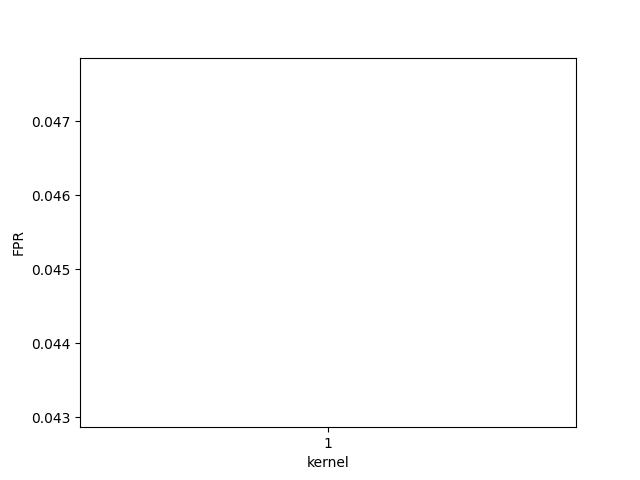
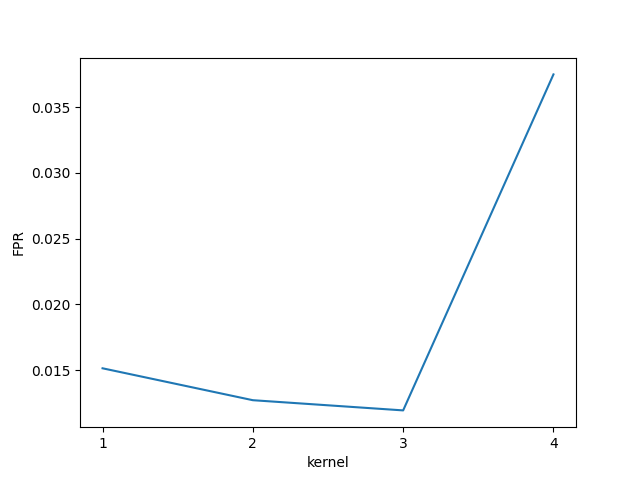
update in main.py

diff --git a/SVM.py b/SVM.py
@@ -1,22 +1,22 @@
 import pandas
 from sklearn import svm
-from sklearn.model_selection import train_test_split
+from sklearn.model_selection import train_test_split, cross_val_score
 from sklearn.metrics import accuracy_score, precision_score, recall_score, f1_score, confusion_matrix
 import numpy as np
 from sklearn.preprocessing import StandardScaler
 from sklearn.preprocessing import OneHotEncoder
 from sklearn.svm import SVC
 import plot
+from sklearn.utils import shuffle
 
 import database as db
 
 # train SVM  //rbf>linear>poly>sigmoid
 def SVM_train(X_train, y_train, X_test, y_test,kernel:str):
     svm = SVC(kernel=kernel)
+    cross_validation(svm, X_train, y_train, 10, 'f1')
+
     svm.fit(X_train, y_train)
-
-
-
     y_pred = svm.predict(X_test)
     tn, fp, fn, tp = confusion_matrix(y_test, y_pred).ravel()
     FPR = fp / (tn + fp)
@@ -29,12 +29,12 @@ def SVM_train(X_train, y_train, X_test, y_test,kernel:str):
 #
 def svm_fit(X:pandas.DataFrame):
 
-
+    #X_train, y_train = shuffle(X_train, y_train)
     X_train, X_test = train_test_split(X, test_size=0.3, train_size=0.7)
 
     y_train = X_train['fraud_bool']
     y_test = X_test['fraud_bool']
-    ohe = OneHotEncoder(sparse_output=False, handle_unknown='ignore')
+    ohe = OneHotEncoder(sparse_output=False, handle_unknown='i gnore')
     X_train = db.one_hot(X_train.drop(['fraud_bool'], axis=1), True, ohe)
     X_test = db.one_hot(X_test.drop(['fraud_bool'], axis=1), False, ohe)
 
@@ -62,6 +62,9 @@ def svm_fit(X:pandas.DataFrame):
     #     "accuracy:" + str(accuracy) + "\nprecision:" + str(precision) + "\nrecall:" + str(recall) + "\nf1_score:" + str(
     #         f1_score))
 
+def cross_validation(model, x, y,cv,score_type:str):
+    scores = cross_val_score(model, x, y, cv=cv, scoring=score_type)
+    print(scores)
 
 
 

diff --git a/logistic.py b/logistic.py
@@ -7,13 +7,18 @@ from sklearn.preprocessing import StandardScaler
 from sklearn.preprocessing import OneHotEncoder
 import pandas as pd
 import plot
-from sklearn.model_selection import train_test_split
+from sklearn.model_selection import train_test_split, cross_val_score
+
 
 def logistic_regression_train(X_train, y_train, X_test, y_test,solver):
-    print(solver)
-    lr = LogisticRegression(solver=solver,max_iter=999)
-    lr.fit(X_train,y_train)
 
+    lr = LogisticRegression(solver=solver,max_iter=999)
+    #########################################################
+    cross_validation(lr, X_train, y_train,10,'f1')
+    #########################################################
+
+
+    lr.fit(X_train,y_train)
     y_pred = lr.predict(X_test)
     tn, fp, fn, tp = confusion_matrix(y_test, y_pred).ravel()
     FPR = fp / (tn + fp)
@@ -50,11 +55,16 @@ def lr_fit(X:pandas.DataFrame):
 
     return FPR, error
 
+#########################################################
+def cross_validation(model, x, y,cv,score_type:str):
+    scores = cross_val_score(model, x, y, cv=cv, scoring=score_type)
+    print(scores)
+#########################################################
 if __name__ == "__main__":
     '''For testing purpose only'''
     X = db.data_lanudry(sample_portion=0.1)
     ohe = OneHotEncoder(sparse_output=False, handle_unknown='ignore')
-    
+
     X_train, X_test = train_test_split(X,test_size=0.3, train_size=0.7)
 
     y_train = X_train['fraud_bool']

diff --git a/main.py b/main.py
@@ -4,7 +4,7 @@ import database as db
 import SVM
 import logistic as lr
 
-visualize = False # If you want to see all attribute in terminal, False by default
+visualize = True # If you want to see all attribute in terminal, False by default
 sample_method = None # Choose between None and 'random'
 sample_portion = 0.1 # Expecting a float number for example: 0.3
 name = 'base.csv'
@@ -20,13 +20,15 @@ def main():
     '''
     X = db.data_lanudry(sample_portion=sample_portion)
 
-    lr_FPR, lr_error = lr.lr_fit(X)
-    print(lr_FPR, lr_error)
-    # svm_FPR,svm_error = SVM.svm_fit(X)
-    # print(svm_FPR,svm_error)
+    # lr_FPR, lr_error = lr.lr_fit(X)
+    # print(lr_FPR, lr_error)
+    svm_FPR,svm_error = SVM.svm_fit(X)
+    print(svm_FPR,svm_error)
 
     if visualize:
         db.display_data(sample_method,sample_portion,name, detail)
+
+
 
 
 main()
